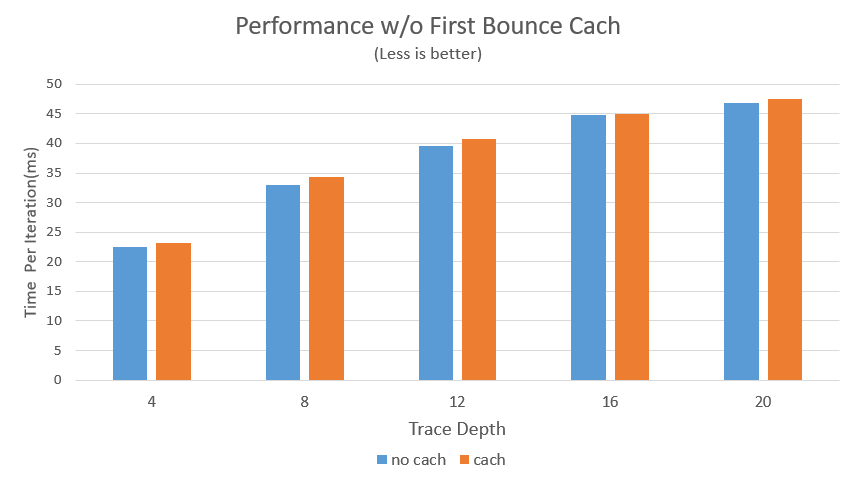
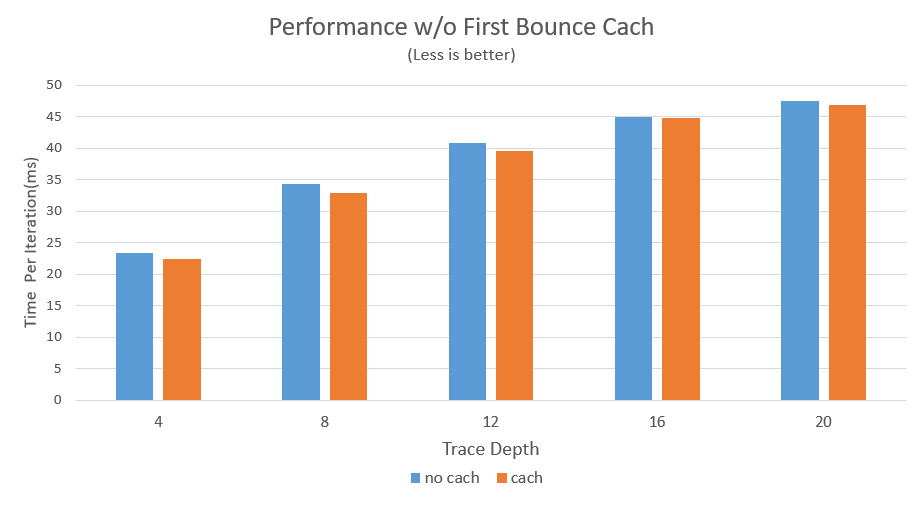
update readme

diff --git a/src/interactions.h b/src/interactions.h
@@ -193,7 +193,7 @@ void scatterRay(
 		float R = R0 + (1 - R0) * pow(1 - cosTheta, 5);
 		thrust::uniform_real_distribution<float> uRefr(0, 1);
 		float refr = uRefr(rng);
-		if (refr < R) {
+		if (refr > R) {
 			pathSegment.ray.direction = glm::refract(pathSegment.ray.direction, normal, etaIn / etaOut);
 			pathSegment.color *= m.color;
 			pathSegment.ray.origin = intersect + normal * 0.001f;

diff --git a/README.md b/README.md
@@ -12,13 +12,20 @@ CUDA Path Tracer
 
 ### Anti-aliasing
 
+Used Stochastic Sampled Antialiasing. Stochastic sampling is a discrete antialiasing method which antialiases scenes through the use of a special sample distribution which replaces most aliased image artefacts with noise of the correct average intensity.
+
+![](img/stochastic.png)
+
+
 ![](img/antialiasing_5000.png)
    
 | No Anti-aliasing        | Anti-aliasing            |
 | ------------- |:-------------:|
 | ![](img/no_antialiasing.png)      | ![](img/antialiasing.png)   |
 
-### Reflection
+### Refraction
+
+Refraction [PBRT 8.2] with Frensel effects using Schlick's approximation, which is a formula for approximating the contribution of the Fresnel factor in the specular reflection of light from a non-conducting interface between two media.
 
 | Reflection       | Refraction           |
 | ------------- |:-------------:|
@@ -26,12 +33,17 @@ CUDA Path Tracer
 
 ### Depth of field
 
+Physically-based depth-of-field. Offset ray origin on a lens. Under the thin lens approximation, parallel incident rays passing through the lens focus at the focal point. If the film plane is placed at a distance equal to the focal length behind the lens, then objects infinitely far away will be in focus, as they image to a single point on the film.
+
+![](img/thinlens.png)
+
 | Focal length 7        | Focal length 12           |
 | ------------- |:-------------:|
 | ![](img/dof_7_0.4.png)      | ![](img/dof_12_1.png)   |
 
 ### Motion Blur
-Add a motion vector to the translation vector.
+
+Add a motion vector to the translation vector on the model. So model may have a slightly different transformation for each ray.
 
 | No Motion Blur        | Motion Blur            |
 | ------------- |:-------------:|
@@ -41,16 +53,40 @@ Add a motion vector to the translation vector.
 
 
 ### Arbitrary mesh loading and rendering
+A mesh loading of wahoo.obj.
+Used tinyObj to read data. Used triangle intersection function glm::intersectRayTriangle to calculate intersections of the mesh object. （Need improvement）
+
 ![](img/mesh_object.png)
 
 
 
 ## Performance Analysis
+
+Sorted the rays/path segments so that rays/paths interacting with the same material are contiguous in memory before shading. 
+
 ![](img/performance_sort.png)
+
+Compared the performance w/o sorting in defferent trace depth. The non-sorting version is much faster than sorting version. This might because thrust::sort_by_key took longer time than we saved using contiguous memory accessing. Another reason might be the scene is originally composed of same material, so the sorting did not improve a lot. If the scene become more complicated, we might take advantage of material sorting.
+
+Next, cached the first bounces data , so that we don't need to recalculate first bounce path segment after first iteration.
+
 ![](img/performance_cach.png)
+
+According to the graph, cach first version has better performance since it save the time for recalculation for first bounce path segment after first iteration.
+
+In each iteration, I used stream compaction to terminate path segment which has no more remain bounces. Below is a graph shows how many rays left after each depth. 
+
+![](img/open_closed.png)
+
+As we see from the graph, stream compaction terminate a lot of paths. Compare scenes which are open (like the given cornell box) and closed (i.e. no light can escape the scene), we can see that since rays in closed scene can not escape, there were more rays remain in closed scene. Also, at first few depth open scenes has more rays terminated, later since many rays have already escape from the scene, the curve has a slower downward trend.
+
 ## Blooper
 
-![Cornell box blooper stream compaction with wrong size](img/compaction_blooper.png)
+Memory allocation error in stream compaction.
+![](img/compaction_blooper.png)
+
+Miscalculate refraction ray costheta.
+![](img/refraction_blooper.png)
 
 ## Reference
 
